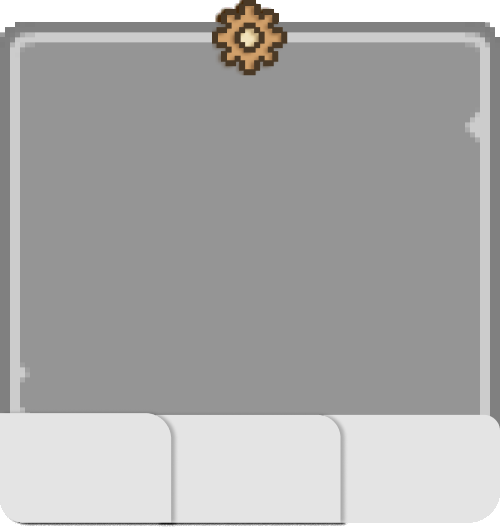
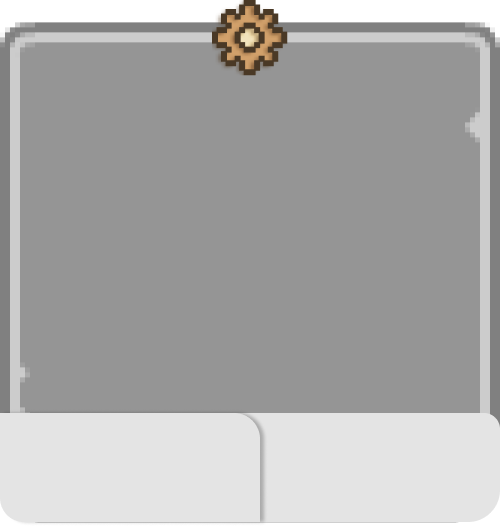
settings changed

diff --git a/Src/yijia/settings_ui.c b/Src/yijia/settings_ui.c
@@ -19,9 +19,7 @@ asset settingsbg;
 asset brightness_icon;
 asset brightnesslow_icon;
 asset brightnesshigh_icon;
-asset save_icon;
 asset SoundOn_icon;
-asset savehover;
 asset brightnesshover_icon;
 asset soundhover;
 asset brightnessSlider;
@@ -33,7 +31,7 @@ asset no;
 asset progresstxt;
 asset soundoffscaled;
 asset soundscaled;
-asset matte;
+asset matte; //for brightness
 int brightposx = 255;
 int alpha;
 int bright_clicked = false;
@@ -44,9 +42,7 @@ void settings_init(void){
 	get_image_size_set("Assets/settingsbg.png", &settingsbg);
 	get_image_size_set("Assets/exitsetting_icon.png", &exitsetting_icon);
 	get_image_size_set("Assets/brightness_icon.png", &brightness_icon);
-	get_image_size_set("Assets/save_icon.png", &save_icon);
 	get_image_size_set("Assets/SoundOn_icon.png", &SoundOn_icon);
-	get_image_size_set("Assets/savehover.png", &savehover);
 	get_image_size_set("Assets/brightnessSlidercircle.png", &brightnessSlidercircle);
 	get_image_size_set("Assets/brightnessSlider.png", &brightnessSlider);
 	get_image_size_set("Assets/brightnesshover_icon.png", &brightnesshover_icon);
@@ -72,24 +68,20 @@ void settings_init(void){
 	settingsbg.position.x = CP_System_GetWindowWidth() - 640;
 	settingsbg.position.y = 360;
 
-	brightness_icon.position.x = CP_System_GetWindowWidth() - 810;
+	brightness_icon.position.x = CP_System_GetWindowWidth() - 765;
 	brightness_icon.position.y = 565;
 
-	save_icon.position.x = CP_System_GetWindowWidth() - 460;
-	save_icon.position.y = 565;
 
-	SoundOn_icon.position.x = CP_System_GetWindowWidth() - 635;
+	SoundOn_icon.position.x = CP_System_GetWindowWidth() - 505;
 	SoundOn_icon.position.y = 565;
 
 	//hover
-	savehover.position.x = CP_System_GetWindowWidth() - 460;
-	savehover.position.y = 565;
 
-	brightnesshover_icon.position.x = CP_System_GetWindowWidth() - 810;
-	brightnesshover_icon.position.y = 565;
+	brightnesshover_icon.position.x = brightness_icon.position.x;
+	brightnesshover_icon.position.y = brightness_icon.position.y;
 
-	soundhover.position.x = CP_System_GetWindowWidth() - 635;
-	soundhover.position.y = 565;
+	soundhover.position.x = SoundOn_icon.position.x;
+	soundhover.position.y = SoundOn_icon.position.y;
 
 	//brightnessslider
 	brightnessSlidercircle.position.x = CP_System_GetWindowWidth() - 525;
@@ -103,6 +95,9 @@ void settings_init(void){
 
 	brightnesshigh_icon.position.x = CP_System_GetWindowWidth() - 470;
 	brightnesshigh_icon.position.y = 360;
+
+	matte.position.x = CP_System_GetWindowWidth() - 640;
+	matte.position.y = 360;
 
 	//txt 
 	brightnesstxt.position.x = CP_System_GetWindowWidth() - 635;
@@ -121,18 +116,6 @@ void settings_init(void){
 	//	starts the game with the sound on
 	soundscaled.clicked = 1;
 
-	//positions of variables inside the save tab
-	yes.position.x = CP_System_GetWindowWidth() - 685;
-	yes.position.y =  380;
-
-	no.position.x = CP_System_GetWindowWidth() - 575;
-	no.position.y = 380;
-
-	progresstxt.position.x = CP_System_GetWindowWidth() - 635;
-	progresstxt.position.y = 280;
-
-	matte.position.x = CP_System_GetWindowWidth() - 640;
-	matte.position.y = 360;
 
 }
 
@@ -161,7 +144,7 @@ void settings_update(void)
 		if (CP_Input_MouseClicked())
 		{
 			brightness_icon.clicked = !brightness_icon.clicked;
-			save_icon.clicked = SoundOn_icon.clicked = 0;
+			SoundOn_icon.clicked = 0;
 		}
 	}
 	if (brightness_icon.clicked)
@@ -193,33 +176,7 @@ void settings_update(void)
 		brightnessSlidercircle.position.x = CP_Math_ClampInt(brightnessSlidercircle.position.x,brightnessSlider.position.x -110, brightnessSlider.position.x + 110 );
 	}
 
-	//SAVE ICON
-	RenderAsset(save_icon, 255);
-	if (mouse_in_rect(save_icon.position.x, save_icon.position.y, save_icon.size.x, save_icon.size.y) == 1)	// save hover 
-	{
-		RenderAsset(savehover, 255);
-		if (CP_Input_MouseClicked())
-		{
-			save_icon.clicked = !save_icon.clicked;
-			brightness_icon.clicked = SoundOn_icon.clicked = 0;
-		}
-	}
-	if (save_icon.clicked)
-	{
-		RenderAsset(yes, 255);
-		RenderAsset(no, 255);
-		RenderAsset(progresstxt, 255);
-		RenderAsset(savehover, 255);
-		/*if (yes.clicked == 1)
-		{
-
-		}
-		if (no.clicked == 1)
-		{
-
-		}*/
-	}
-	
+		
 
 	//SOUND ICON 
 	RenderAsset(SoundOn_icon, 255); // renders the soundicon in the selection tab
@@ -229,7 +186,7 @@ void settings_update(void)
 		if (CP_Input_MouseClicked())
 		{
 			SoundOn_icon.clicked = !SoundOn_icon.clicked;
-			brightness_icon.clicked = save_icon.clicked = 0;
+			brightness_icon.clicked = 0;
 		}
 	}
 	if (SoundOn_icon.clicked)	//	renders the sound window if the sound icon in the tab is selected

diff --git a/Src/yijia/pause_ui.c b/Src/yijia/pause_ui.c
@@ -10,7 +10,7 @@
 #include "cprocessing.h"
 #include "SpriteAnimation/spriteAnimation.h"
 #include "../UI/UtilsUI/ui_utils.h"
-//#include"../yijia/pause_ui.h"
+#include"../yijia/pause_ui.h"
 #include "GameStateManager.h"
 
 asset pausedpopup;
